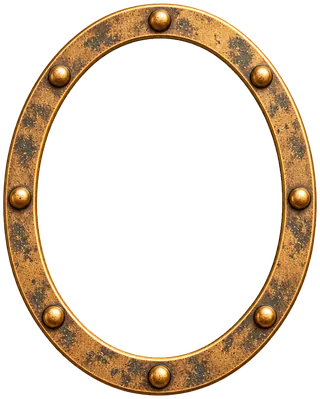
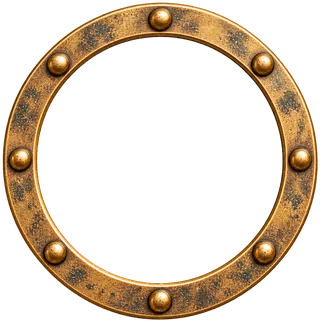
G098: 20 Coastal — GM07 yuvarlak lomboz (story + home)
frame_portrait_r2_v2 ham imagegen; build_images parts_prep.parca_isle (gm07/ alt klasörü) ile işler, leke dolgusu
gradyanlı yeşil + alfa delikli pencereyi tam şeffaf yapar (foto_alani denetimi 0). Foto alanı 870/872 (≈ 1:1),
pencere telefonda 40vw. site.css/theme.json manifest'ten.

Claude-Session: https://claude.ai/code/session_01HP9ZrJ8mhZnigbvsvUQ4pR

Changed region(s): [[0.0, 0.0, 1.0, 0.9938]]

diff --git a/platform/themes/coastal-seaside/site.css b/platform/themes/coastal-seaside/site.css
@@ -394,8 +394,8 @@ html.arrive-fade .site-main { animation: arrive-fade .55s ease-out both; }
 .cue { margin-top: 2px; font-size: 11px; letter-spacing: .22em; color: var(--deep-ink); text-decoration: underline 1px rgba(46, 94, 126, .5); text-underline-offset: 5px; }
 .win-frame { position: relative; display: block; filter: drop-shadow(0 14px 16px rgba(20, 40, 60, .2)) drop-shadow(0 2px 2px rgba(20, 40, 60, .12)); }
 .win-frame .ph-mark span { display: none; }
-.wf-portrait { width: min(50vw, 216px); aspect-ratio: 834 / 1041; }
-.wf-portrait .photo-slot, .pane .photo-slot { left: 11.391%; top: 9.51%; width: 76.978%; height: 80.307%; } /* photo_slots.portrait (≥ 38vw on phones) */
+.wf-portrait { width: min(50vw, 216px); aspect-ratio: 1130 / 1136; }
+.wf-portrait .photo-slot, .pane .photo-slot { left: 11.416%; top: 11.356%; width: 76.991%; height: 76.761%; } /* photo_slots.portrait (≥ 38vw on phones) */
 .wf-landscape { width: min(78vw, 360px); aspect-ratio: 1121 / 790; }
 .wf-landscape .photo-slot, .venue-photo .photo-slot { left: 9.813%; top: 13.165%; width: 80.464%; height: 72.785%; } /* photo_slots.landscape */
 /* The Day: four schedule rows */
@@ -451,7 +451,7 @@ html.arrive-fade .site-main { animation: arrive-fade .55s ease-out both; }
 .pane.side-left { align-self: flex-start; margin-left: max(5vw, 50% - var(--fw) - 2vw); }
 .pane.side-right { align-self: flex-end; margin-right: max(5vw, 50% - var(--fw) - 2vw); }
 .pane + .pane { margin-top: 12px; }
-.pane .frame { position: relative; aspect-ratio: 834 / 1041; filter: drop-shadow(0 18px 20px rgba(20, 40, 60, .2)) drop-shadow(0 2px 2px rgba(20, 40, 60, .12)); }
+.pane .frame { position: relative; aspect-ratio: 1130 / 1136; filter: drop-shadow(0 18px 20px rgba(20, 40, 60, .2)) drop-shadow(0 2px 2px rgba(20, 40, 60, .12)); }
 /* a beach find beside each porthole (W1.3), facing the middle */
 .beside { position: absolute; width: 23%; height: auto; display: block; filter: drop-shadow(0 4px 4px rgba(30, 50, 70, .18)); }
 .side-left .beside { right: -24%; bottom: 10%; rotate: -10deg; }

diff --git a/platform/themes/coastal-seaside/build_images.py b/platform/themes/coastal-seaside/build_images.py
@@ -25,6 +25,11 @@ screen and carries the seashell and twine away"):
     kesim geometrisine bağlı: çapa = V kapağın ucu (kapak_kes tip); W1.1 comp'ta ölçülen kabuk+sicim genişliği / zarf
     genişliği ve merkezin uca göre kayması (manifest.closure; COMP).
   * Açılış dalgası (wave.png, ek parça): alfa kutusuna kırpılır, iki genişlik; site ekranı soldan sağa geçirir.
+  * Lomboz (G098, GM07 R2): story ve home lombozu `frame_portrait_r2_v2.png` — tam yuvarlak pirinç lomboz, sekiz perçin
+    (comp W1.3 gibi; eski frame_portrait dik ovaldi). Ham imagegen çıktısı (kaynakta düzenleme yok): penceresi düz değil
+    (kenarda koyulaşan yeşil, ortada alfa deliği = GPT "bulut lekesi") → olağan hat: GPT_PROMPTS.md'de Kaydet satırı
+    olmadığından parts_prep.parca_isle elle çağrılır (geçici klasör `gm07/`); leke dolgusu pencereyi tam şeffaf yapar,
+    foto_alani her WebP'de denetler.
   * Telefon zemini (`sea`): bg_page 2:3 telefonda (en/boy ≈ 0,46) cover ile köşe kümelerini keserdi. Zemin bg_page'in
     iki kümesiz bölgesinden kurulur (deniz sisi + alttaki kıyı: dalga ve kum, sağdaki kabuk kümesi hariç), 120 px yumuşak
     geçiş; kumsal kümeleri ayrı katman (decor_tl / decor_br), ekranda bütün. Geniş ekran: `sea_wide` (kümesiz geniş
@@ -49,6 +54,7 @@ ROOT = THEME.parents[2]
 COL = ROOT / "collections/20_Coastal_Seaside"
 PARTS = COL / "assets/gpt/parts"
 COMPS = COL / "assets/gpt/comps"
+GM07_PORTRAIT = "frame_portrait_r2_v2.png"   # GM07 R2 yuvarlak lomboz (G098)
 sys.dont_write_bytecode = True  # tools/ klasörüne __pycache__ yazma
 sys.path.insert(0, str(ROOT / "tools"))
 import tema_build as tb  # noqa: E402
@@ -375,6 +381,19 @@ def main():
     if oniz and (oniz == THEME or oniz.is_relative_to(THEME)):
         sys.exit("--onizleme tema klasörünün içinde olamaz")
     prep, win, tmp = tb.prep_hazirla(COL, args.prep_dir, yasak=[THEME], onek="cs-prep-")
+    # GM07 R2 lombozu (G098): ayrı alt klasörde parts_prep.parca_isle → frame_portrait.png + pencere kaydı
+    import hashlib
+    import parts_prep
+    gm = prep / "gm07"
+    (gm / "masks").mkdir(parents=True, exist_ok=True)
+    gm_kayit, gm_pen, _, gm_uy = parts_prep.parca_isle({"seffaf": True}, PARTS / GM07_PORTRAIT, gm, 150, 8)
+    for u in gm_uy:
+        print(f"UYARI  {GM07_PORTRAIT}: {u}")
+    if len(gm_pen) != 1:
+        sys.exit(f"{GM07_PORTRAIT}: tek pencere bekleniyordu ({len(gm_pen)})")
+    (gm / gm_kayit["dosyalar"][0]["dosya"]).replace(gm / "frame_portrait.png")
+    gm_pen[0]["katman"] = "frame_portrait.png"
+    gm_win = {"frame_portrait": gm_pen}
     out.mkdir(parents=True, exist_ok=True)
     if oniz:
         oniz.mkdir(parents=True, exist_ok=True)
@@ -529,10 +548,15 @@ def main():
     # ------------------------------------------------------------------ çerçeveli parçalar + foto alanları
     slots = {}
     for ad, parca in (("card", "card_small"), ("portrait", "frame_portrait"), ("landscape", "frame_landscape")):
-        im = Image.open(prep / f"{parca}.png").convert("RGBA")
+        kok, pw = (gm, gm_win) if parca == "frame_portrait" else (prep, win)
+        im = Image.open(kok / f"{parca}.png").convert("RGBA")
         im, temizlik[parca] = hale_temizle(im, sert=True)
         webp(im, parca, WIDTHS[parca])
-        slots[ad] = tb.foto_alani(prep, win, parca, ad, manifest, out)
+        slots[ad] = tb.foto_alani(kok, pw, parca, ad, manifest, out)
+    manifest["frame_portrait"].update({"source": f"parts/{GM07_PORTRAIT}", "source_canvas": gm_kayit["kaynak_olcu"],
+                                       "crop": gm_kayit["kirpma"],
+                                       "source_sha256": hashlib.sha256((PARTS / GM07_PORTRAIT).read_bytes()).hexdigest(),
+                                       "note": "GM07 R2 ham imagegen (G098): yuvarlak lomboz; pencere parts_prep leke dolgusuyla"})
     manifest["photo_slots"] = slots
     manifest["card_small"]["free_zone"] = tb.serbest_bolge(benek_sil(Image.open(prep / "card_small.png")), 0.5, ornek=(.8, .86))
 
